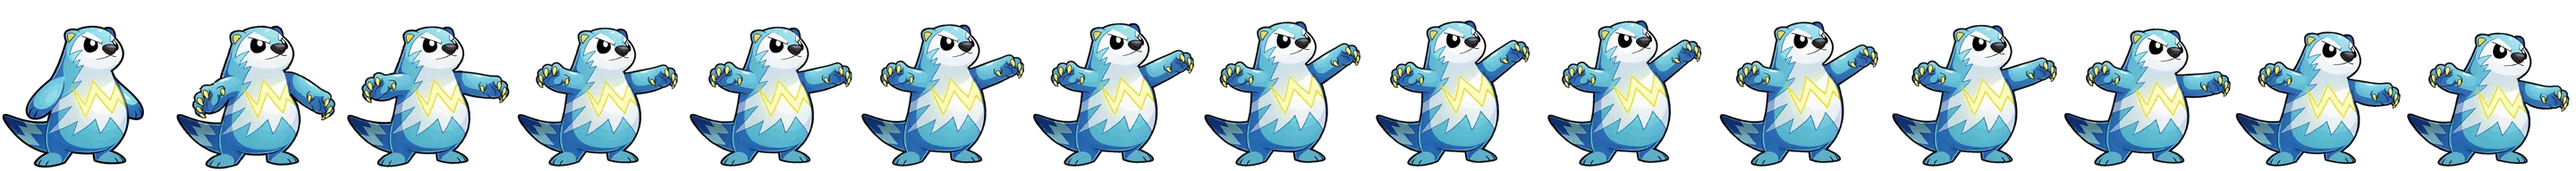
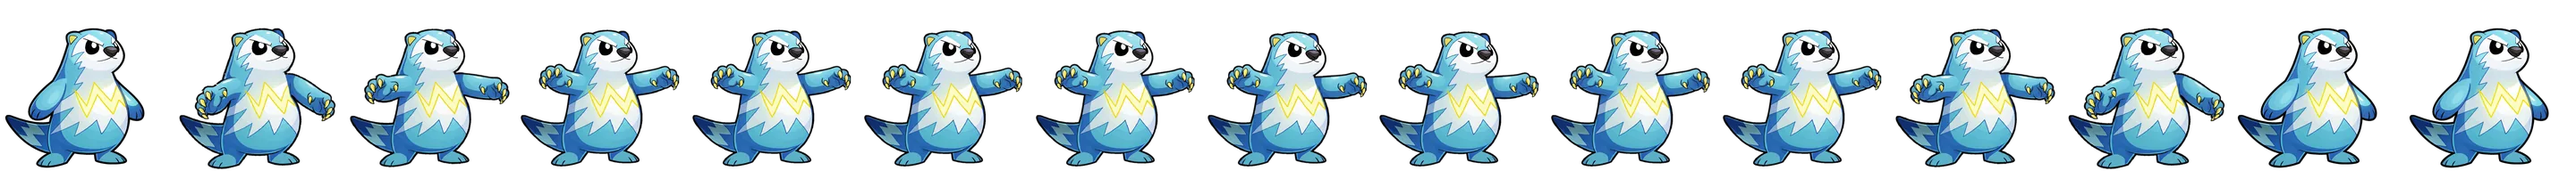
v82: Lontrovão com ataque completo e animação de dano
Claude-Session: https://claude.ai/code/session_01YTDY6QndBaroHZ66fDoJ8v

Changed region(s): [[0.0, 0.125, 1.0, 1.0]]

diff --git a/patches/082-mercado-online-e-novos.js b/patches/082-mercado-online-e-novos.js
@@ -11,16 +11,18 @@ const CR82=[
 (function(){try{const W={1:9,2:6,3:3,4:1.2};CR82.forEach(([id,n,el,role,r,st,reg,sk,desc,f])=>{if(!SP[id])def(id,{n,el,role,r,st,reg,sk,desc});if(COLLECT.indexOf(id)<0)COLLECT.push(id);
   const R=REG[reg];if(R&&R.pool&&!R.pool.some(x=>x[0]===id))R.pool.push([id,W[r]||3,r>=3?3:1]);
   IMG[id]='cr82/'+f+'_icon.webp';IMGS.add(id);SHEET[id]='cr82/'+f+'_base.webp';});}catch(e){console.warn('v82 def',e);}})();
-const CR82F={};CR82.forEach(c=>CR82F[c[0]]=c[9]);
+const CR82H=new Set(['lontrovao']);const CR82F={};CR82.forEach(c=>CR82F[c[0]]=c[9]);
 (function(){const st=document.createElement('style');st.textContent=`
 .unit:not(.dead) .sheet.cr82:not(.pose),.walker .sheet.cr82,.hstage .sheet.cr82{background-image:var(--i)!important;background-size:1500% 100%!important;animation:cr82 1.7s steps(15,jump-none) infinite!important}
+.unit .sheet.cr82.h82{background-image:var(--h)!important;background-size:1500% 100%!important;animation:cr82 .55s steps(15,jump-none) 1 forwards!important}
 .unit .sheet.cr82.a82{background-image:var(--k)!important;background-size:1500% 100%!important;animation:cr82 .6s steps(15,jump-none) 1 forwards!important}
 @keyframes cr82{from{background-position:0% 0}to{background-position:100% 0}}`;document.head.appendChild(st);
   /* pré-carrega as tiras para não piscar */
   CR82.forEach(c=>['idle','atk'].forEach(k=>{const i=new Image();i.src='cr82/'+c[9]+'_'+k+'.webp';}));})();
-sheetArt=(function(o){return function(id,g){let h=o.apply(this,arguments);const f=CR82F[id];if(f&&h.indexOf('art sheet')>=0)h=h.replace('class="art sheet','class="art sheet cr82').replace('style="',`style="--i:url(cr82/${f}_idle.webp);--k:url(cr82/${f}_atk.webp);`);return h;};})(sheetArt);
+sheetArt=(function(o){return function(id,g){let h=o.apply(this,arguments);const f=CR82F[id];if(f&&h.indexOf('art sheet')>=0)h=h.replace('class="art sheet','class="art sheet cr82').replace('style="',`style="--i:url(cr82/${f}_idle.webp);--k:url(cr82/${f}_atk.webp);${CR82H.has(f)?`--h:url(cr82/${f}_hit.webp);`:''}`);return h;};})(sheetArt);
 pose=(function(o){return function(u,frame,ms){o.apply(this,arguments);try{const el=uel(u);const sh=el&&el.querySelector('.sheet.cr82');if(!sh)return;
   if(frame===2){sh.classList.remove('a82');void sh.offsetWidth;sh.classList.add('a82');clearTimeout(sh._a);sh._a=setTimeout(()=>sh.classList.remove('a82'),650);}
+  else if(frame===4&&CR82H.has(CR82F[u.sp])){sh.classList.remove('a82','h82');void sh.offsetWidth;sh.classList.add('h82');clearTimeout(sh._h);sh._h=setTimeout(()=>sh.classList.remove('h82'),600);}
   else if(frame!==3)sh.classList.remove('a82');}catch(e){}};})(pose);
 
 /* ---------- 2. Mercado online: anúncios guardados no servidor ---------- */
